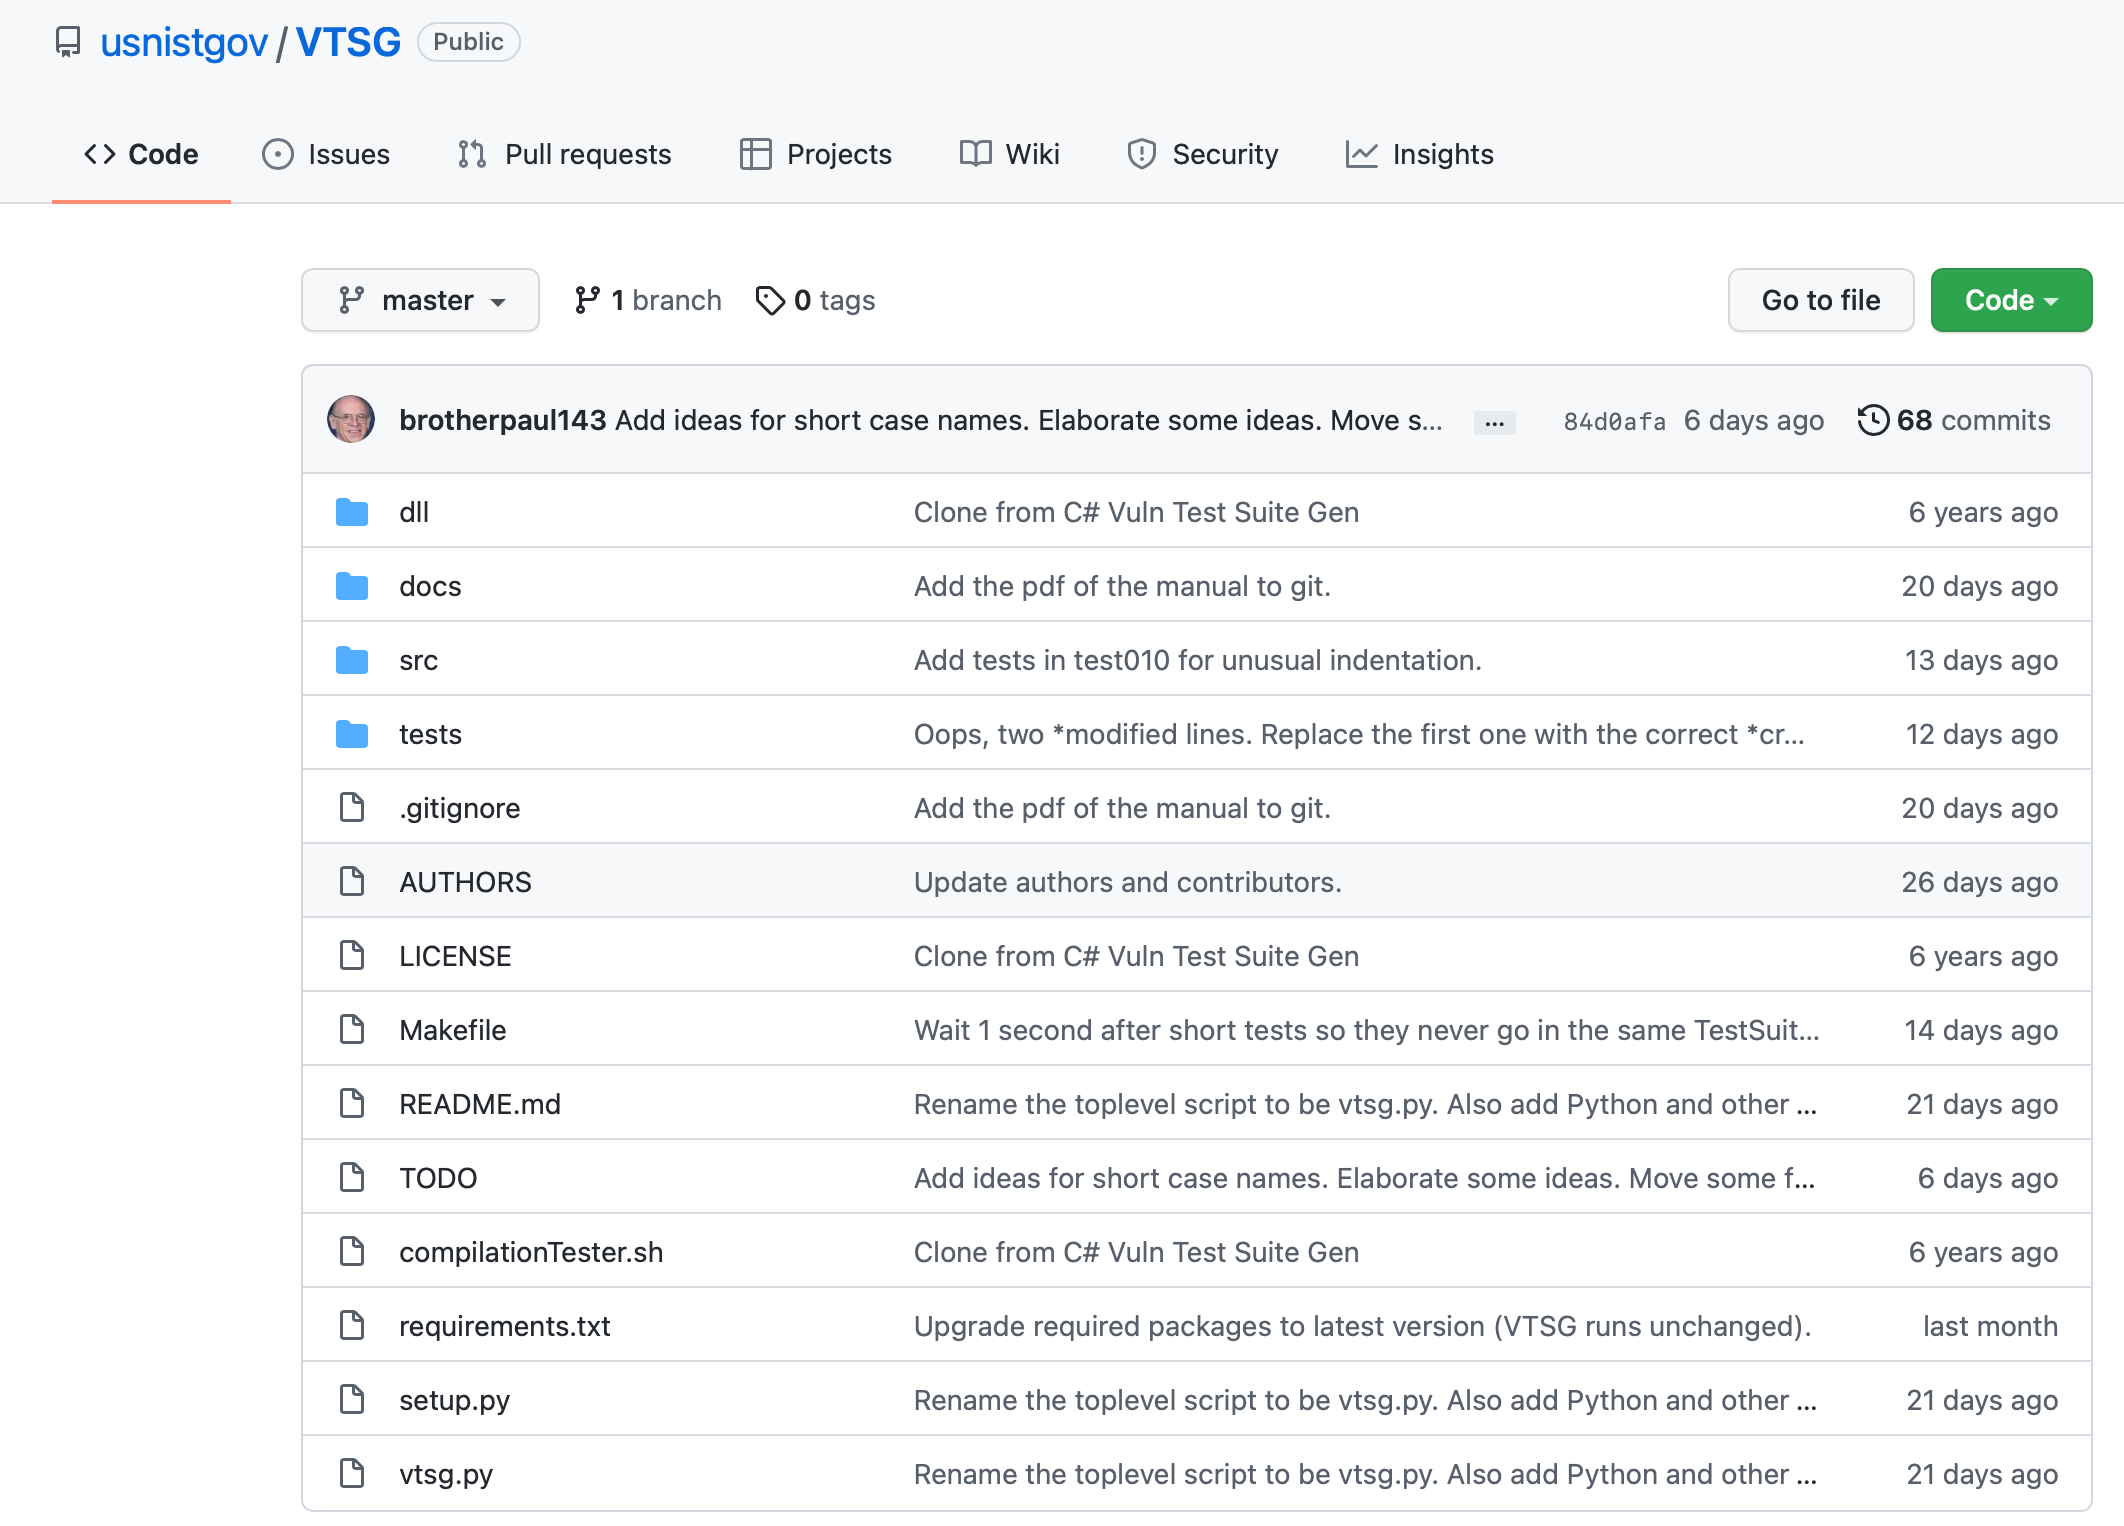
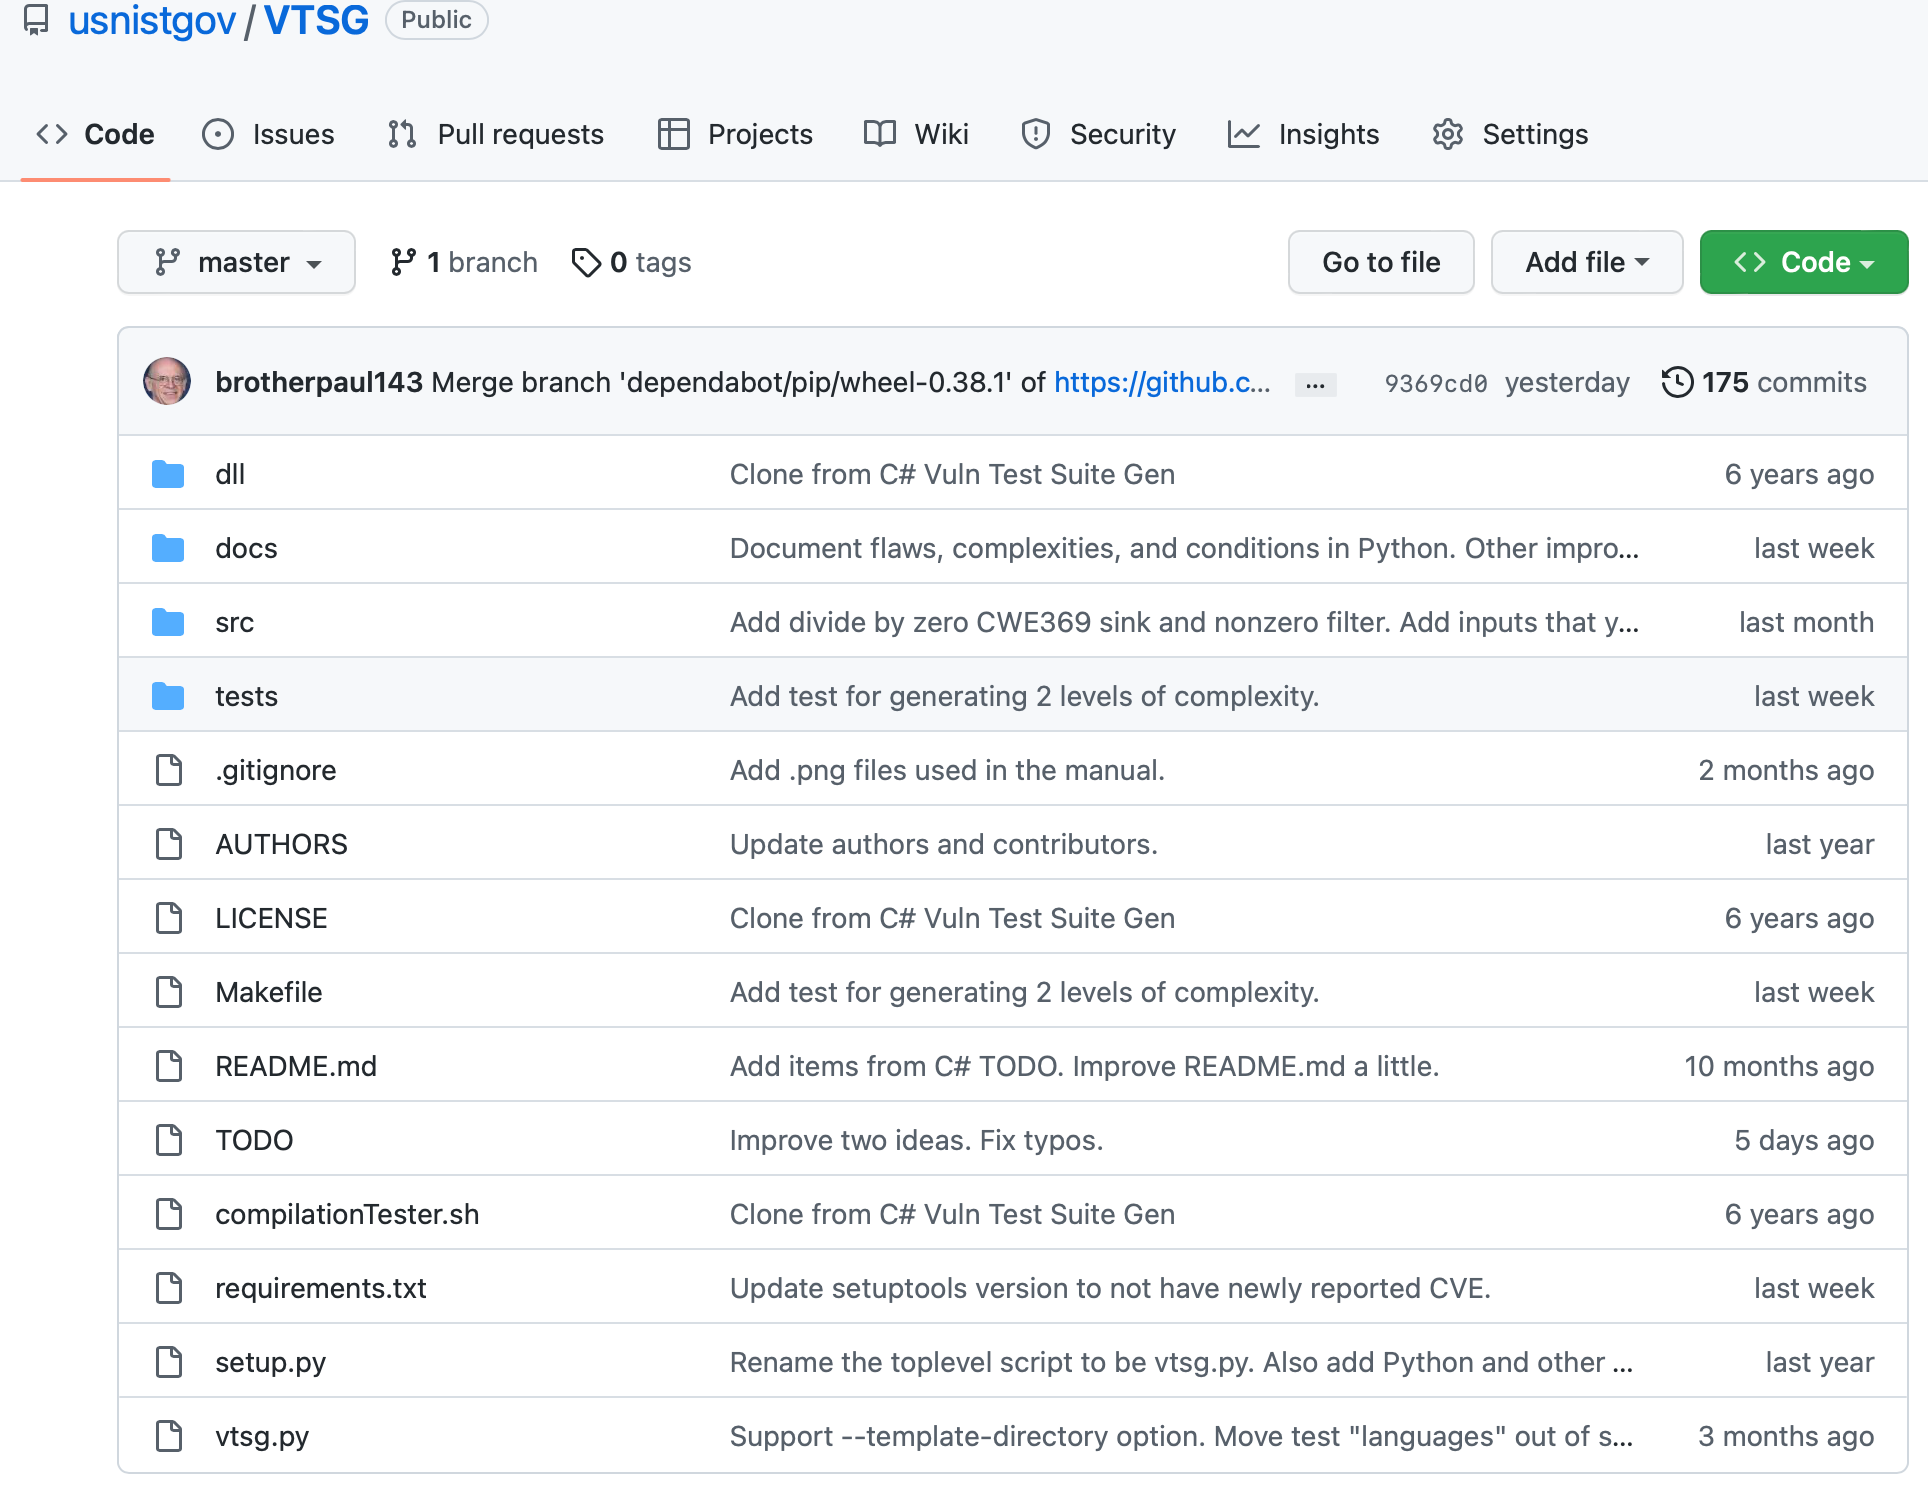
Move captions above tables.  Add spell target for make.  Update git files figure.
Proper style put captions above tables (captions of figures are below).  Make all
captions "sentence" case, that is, the first word is capitalized, and all following
words are lower case (unless proper names, etc.).  Other miscellaneous improvements.
Add a target in the Makefile to check spelling against known list.  Add the
known-good spelling list.

diff --git a/docs/manual/vulTestSuiteGenV3.tex b/docs/manual/vulTestSuiteGenV3.tex
@@ -1,5 +1,5 @@
 % *created  "Fri Jun  5 12:11:18 2020" *by "Paul E. Black"
-% *modified "Thu Jan  5 09:04:00 2023" *by "Paul E. Black"
+% *modified "Thu Jan 12 10:41:10 2023" *by "Paul E. Black"
 
 \documentclass[12pt]{article}
 \usepackage{amsmath}
@@ -493,6 +493,7 @@ Table~\ref{tab:command line options}.
 
 \begin{table}[H]
 \centering
+\caption{Options for command line invocation}
 \begin{tabular}{|l|l|}
 \hline
 -h -\zws-help & Show help and quit \\
@@ -553,7 +554,6 @@ explanation.} \\
 \makecell[l]{for programmer use} \\
 \hline
 \end{tabular}
-\caption{Options for Command Line Invocation}
 \label{tab:command line options}
 \end{table} 
 
@@ -897,6 +897,8 @@ task without error.
 
 \begin{table}[H]
 \centering
+\caption{Replacement sequences for characters that are treated 
+in a special way in XML files.}
 \begin{tabular}{|c|l|}
 \hline
 \textbf{Character} & \textbf{Replacement} \\
@@ -912,8 +914,6 @@ task without error.
  \verb|&| & \&amp; \\
 \hline
 \end{tabular}
-\caption{Replacement sequences for characters that are treated 
-in a special way in XML files.}
 \label{tab:XML escapes}
 \end{table}
 
@@ -1291,6 +1291,7 @@ ignored.  Table~\ref{tab:selection safe algorithm} expresses this as a table.
 
 \begin{table}[H]
 \centering
+\caption{Decision table for whether a set of modules is safe or unsafe.}
 \begin{tabular}{c|c|c|}
   & \makecell{Any module \\ has safe="1"}
   & \makecell{No module is \\ always safe} \\
@@ -1300,7 +1301,6 @@ ignored.  Table~\ref{tab:selection safe algorithm} expresses this as a table.
 \makecell{No module is \\ always unsafe} &   safe   & not safe \\
 \hline
 \end{tabular}
-\caption{Decision table for whether a selection of modules is considered safe or unsafe.}
 \label{tab:selection safe algorithm}
 \end{table}
 
@@ -1386,7 +1386,8 @@ All filter modules are in the \verb|filters.xml| file.
 
 \begin{figure}[htbp]
   \includegraphics[width=\linewidth]{fig_Filter_file.png}
-  \caption{Example Filter module. Instantiated in lines 19--27 of Fig.~\ref{fig:example aux file}.}
+  \caption{Example Filter module. Instantiated in lines 19--27 of
+           Fig.~\ref{fig:example aux file}.}
   \label{fig:example filter file}
 \end{figure}
 
@@ -1495,7 +1496,7 @@ All sink modules are in the language's \verb|sinks.xml| file.
 
     The placeholder \verb|{{flaw}}| indicates that the next line is the location
     of the flaw.  In other words, if this case is unsafe, the manifest reports a
-    flaw at the number of the line following this.  In generated unsafe cases,
+    flaw at the line following this.  In generated unsafe cases,
     \verb|{{flaw}}| is replaced with the one-line comment string,
     see Sec.~\ref{sec: file template}, and ``flaw''.
     It does not appear in generated safe cases.
@@ -1503,7 +1504,8 @@ All sink modules are in the language's \verb|sinks.xml| file.
 
 \begin{figure}[htbp]
   \includegraphics[width=\linewidth]{fig_Sink_file.png}
-  \caption{Example Sink module. Instantiated at line 23 of Fig.~\ref{fig:example main file}.}
+  \caption{Example Sink module. Instantiated at line 23 of
+           Fig.~\ref{fig:example main file}.}
   \label{fig:example sink file}
 \end{figure}
 
@@ -1661,6 +1663,8 @@ complexity modules are inside \verb|<complexities>|.
 
     \begin{table}[H]
     \centering
+    \caption{An example of code for each value of ``executed'' showing whether
+      ``placeholder'' code will be executed.}
     \begin{tabular}{|r|l|}
     \hline
       \makecell{Value of \\ executed}
@@ -1727,8 +1731,6 @@ complexity modules are inside \verb|<complexities>|.
     \\
     \hline
     \end{tabular}
-    \caption{An example of code for each value of ``executed'' showing whether
-      ``placeholder'' code will be executed.}
     \label{tab:execution examples}
     \end{table}
 
@@ -1972,7 +1974,7 @@ Charles de Oliveira for their contributions to this report.
 
 \appendix
 
-\section{\CSharp\ language}
+\section{\CSharp\ Language}
 \label{sec:CSharp language}
 
 This appendix documents the flaws, flaw groups, conditions, and complexities
@@ -2006,14 +2008,15 @@ The flaws are in the following groups:
 Here are the complexities currently available in \CSharp.
 We explain the concept of code complexities in Sec.~\ref{sec:code complexities} and
 the format of complexity modules in Sec.~\ref{sec: complexity modules}.
-This very brief description is to remind the reader of the complexity.
+The brief descriptive pseudocode reminds the reader of the complexity.
 See the \verb|complexity.xml| file for the specific code.
 
 \begin{table}[H]
 \centering
+\caption{Complexity IDs and pseudocode defined for \CSharp}
 \begin{tabular}{|r|l|}
 \hline
-\textbf{ID} & \textbf{Complexity} \\
+\textbf{ID} & \textbf{Pseudocode} \\
 \hline
  1 & if condition code \\
 \hline
@@ -2061,7 +2064,6 @@ See the \verb|complexity.xml| file for the specific code.
 22 & code then output passed via class \\
 \hline
 \end{tabular}
-\caption{IDs and Code Description of Complexities Defined for \CSharp}
 \label{tab:complexity IDs for CSharp}
 \end{table}
 
@@ -2072,6 +2074,8 @@ always evaluates to true or false.
 
 \begin{table}[H]
 \centering
+\caption{Condition IDs, code, and value to which it evaluates defined for
+  \CSharp}
 \begin{tabular}{|r|l|l|}
 \hline
 \textbf{ID} & \textbf{Code} & \textbf{Value} \\
@@ -2093,13 +2097,11 @@ always evaluates to true or false.
 8 & \verb|Math.Sqrt(42)>=42| & False \\
 \hline
 \end{tabular}
-\caption{IDs, Code, and Value to Which it Evaluates of Conditions Defined for
-  \CSharp}
 \label{tab:condition IDs for CSharp}
 \end{table}
 
 
-\section{PHP language}
+\section{PHP Language}
 \label{sec:PHP language}
 
 This documents the flaw, flaw group, conditions, and complexities currently in the
@@ -2118,14 +2120,15 @@ The flaw is in the following group:
 Here are the complexities currently available in PHP.
 We explain the concept of code complexities in Sec.~\ref{sec:code complexities} and
 the format of complexity modules in Sec.~\ref{sec: complexity modules}.
-This very brief description is to remind the reader of the complexity.
+The brief descriptive pseudocode reminds the reader of the complexity.
 See the \verb|complexity.xml| file for the specific code.
 
 \begin{table}[H]
 \centering
+\caption{Complexity IDs and pseudocode defined for PHP}
 \begin{tabular}{|r|l|}
 \hline
-\textbf{ID} & \textbf{Complexity} \\
+\textbf{ID} & \textbf{Pseudocode} \\
 \hline
  1 & if condition code \\
 \hline
@@ -2173,7 +2176,6 @@ See the \verb|complexity.xml| file for the specific code.
 22 & code then output passed via class \\
 \hline
 \end{tabular}
-\caption{IDs and Code Description of Complexities Defined for PHP}
 \label{tab:complexity IDs for PHP}
 \end{table}
 
@@ -2185,6 +2187,8 @@ always evaluates to true or false.
 
 \begin{table}[H]
 \centering
+\caption{Condition IDs, code, and value to which it evaluates defined for
+  PHP}
 \begin{tabular}{|r|l|l|}
 \hline
 \textbf{ID} & \textbf{Code} & \textbf{Value} \\
@@ -2194,13 +2198,11 @@ always evaluates to true or false.
 2 & \verb|1==0| & False \\
 \hline
 \end{tabular}
-\caption{IDs, Code, and Value to Which it Evaluates of Conditions Defined for
-  PHP}
 \label{tab:condition IDs for PHP}
 \end{table}
 
 
-\section{Python language}
+\section{Python Language}
 \label{sec:Python language}
 
 This documents the flaws, flaw groups, conditions, and complexities currently in the
@@ -2219,14 +2221,15 @@ The following flaws are currently defined for Python:
 Here are the complexities currently defined.
 We explain the concept of code complexities in Sec.~\ref{sec:code complexities} and
 the format of complexity modules in Sec.~\ref{sec: complexity modules}.
-This very brief description is to remind the reader of the complexity.
+The brief descriptive pseudocode reminds the reader of the complexity.
 See the \verb|complexity.xml| file for the specific code.
 
 \begin{table}[H]
 \centering
+\caption{Complexity IDs and pseudocode defined for Python}
 \begin{tabular}{|r|l|}
 \hline
-\textbf{ID} & \textbf{Complexity} \\
+\textbf{ID} & \textbf{Pseudocode} \\
 \hline
  1 & if condition code \\
 \hline
@@ -2283,7 +2286,6 @@ j16n & while True break code \\
 72 & code then output passed via class \\
 \hline
 \end{tabular}
-\caption{IDs and Pseudocode of Complexities Defined for Python}
 \label{tab:complexity IDs for Python}
 \end{table}
 
@@ -2294,6 +2296,8 @@ always evaluates to true or false.
 
 \begin{table}[H]
 \centering
+\caption{Condition IDs, code, and value to which it evaluates defined for
+  Python}
 \begin{tabular}{|r|l|l|}
 \hline
 \textbf{ID} & \textbf{Code} & \textbf{Value} \\
@@ -2323,8 +2327,6 @@ always evaluates to true or false.
 8 & \verb|math.sqrt(42)>=42| & False \\
 \hline
 \end{tabular}
-\caption{ID, Code, and Value to which it evaluates of Conditions Defined for
-  Python}
 \label{tab:condition IDs for Python}
 \end{table}
 
@@ -2340,7 +2342,7 @@ always evaluates to true or false.
   \includegraphics[width=1\linewidth]{fig_git_files.png}
   \caption{Snapshot of files in the VTSG git repository, which is at
     \href{https://github.com/usnistgov/VTSG}{https://github.com/ usnistgov/VTSG},
-    as of 8 March 2022.}
+    as of 12 January 2023.}
   \label{fig:git files}
 \end{figure}
 
@@ -2348,7 +2350,7 @@ always evaluates to true or false.
   \includegraphics[width=0.8\linewidth]{fig_README_md.png}
   \caption{README.md file, which is at
     \href{https://github.com/usnistgov/VTSG/blob/master/README.md}
-         {https://github.com/usnistgov/VTSG/blob/master/ README.md},
+         {https://github.com/usnistgov/VTSG/blob/ master/README.md},
     as of 8 March 2022.}
   \label{fig:README.md file}
 \end{figure}
